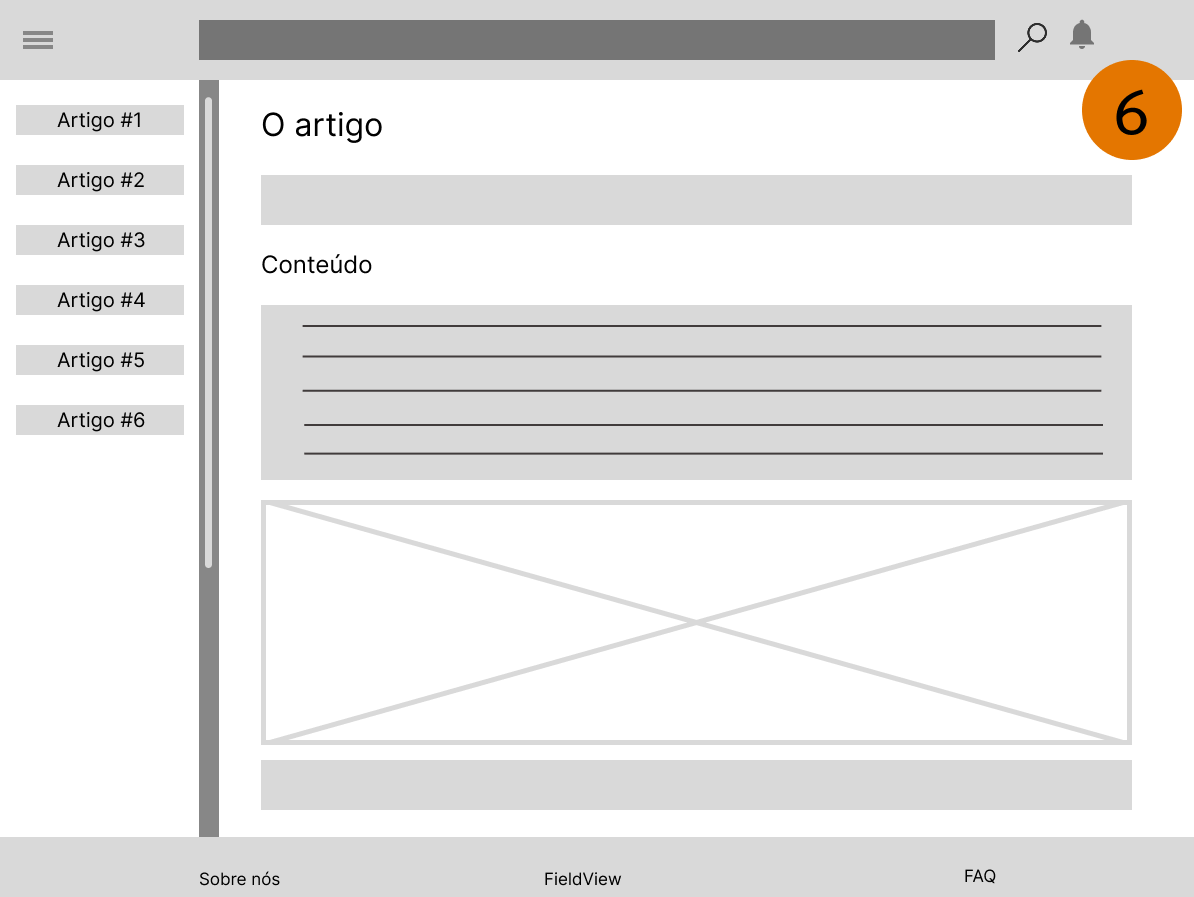
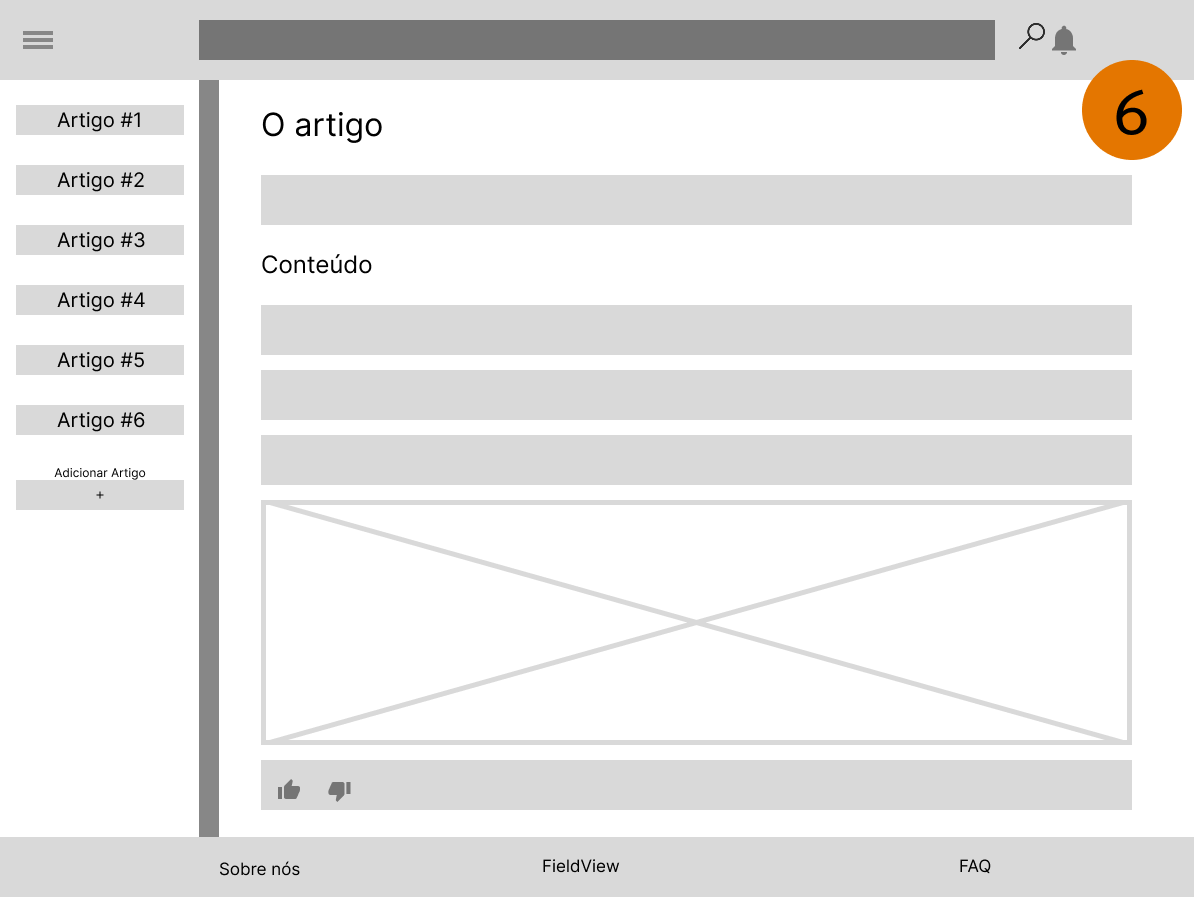
docs: adicionando imagens wireframe

diff --git a/documents/wad.md b/documents/wad.md
@@ -417,9 +417,9 @@ Desktop | Mobile
 
 Tela | Recursos | User Story 
 --- | --- | ---
-<img src="../assets/assets_wad/wireframes/loginPTD.png"> | **Tela de Login:** Campo de Email - Campo para a senha - Botão de confirmação de login | <div align = "center"> 1<br></div>
-<img src="../assets/assets_wad/wireframes/homePTD.png">  | **Tela Home:** Aba de buscas rápidas - Direcionamento para tela de trilhas - Direcionamento para tela de help - Artigos que podem ser fixados pelo PTD para acesso rápido. - Sino de notificações. | <div align = "center"> 1<br>2<br>3 </div>
-<img src="../assets/assets_wad/wireframes/trilhasPTD.png"> <br> <img src="../assets/assets_wad/wireframes/trilhas2PTD.png">  | **Tela Trilhas:** Progesso atual - Histórico de trilhas - Recomendações de tilhas - Base de conteúdos gerais e opcionais. |  <div align = "center"> 1<br>2<br>3<br></div>
+<img src="../assets/assets_wad/wireframes/loginPTD.png"> | **Tela de Login:** <br> - Campo de Email <br> - Campo para a senha <br>- Botão de confirmação de login | <div align = "center"> 1<br></div> 
+<img src="../assets/assets_wad/wireframes/homePTD.png"> <br> <img src="../assets/assets_wad/wireframes/home2PTD.png">| **Tela Home:** <br> - Aba de buscas rápidas <br> - Direcionamento para tela de trilhas <br> - Direcionamento para tela de help <br> - Artigos que podem ser fixados pelo PTD para acesso rápido.  - Sino de notificações. | <div align = "center"> 1<br>2<br>3 </div>
+<img src="../assets/assets_wad/wireframes/trilhasPTD.png"> <br> <img src="../assets/assets_wad/wireframes/trilhas2PTD.png">  | **Tela Trilhas:** <br> - Progesso atual <br> - Histórico de trilhas <br> - Recomendações de tilhas <br> - Base de conteúdos gerais e opcionais. |  <div align = "center"> 1<br>2<br>3<br></div>
  <img src="../assets/assets_wad/wireframes/dashboardPTD.png"> | **Tela Dashboard:** Conteúdo sequêncial - Informações laterais - Material espeífico - Avaliação dos assuntos. | <div align = "center"> 4<br></div>
  <img src="../assets/assets_wad/wireframes/helpPTD.png"> | **Tela Help:** Aba de buscas rápidas - Cards de assuntos e temas recorrentes. | <div align = "center"> 1<br></div>
  <img src="../assets/assets_wad/wireframes/help2PTD.png"> | **Tela do artigo:** Aba de buscas rápidas - Lado direito: artigo - Lado esquerdo: lista de artigos da mesma categoria. | <div align = "center"> 1<br></div>
@@ -442,7 +442,7 @@ Tela | Recursos | User Story
 Tela | Recursos | User Story 
 --- | --- | ---
 <img src="../assets/assets_wad/wireframes/loginPTD.png"> | **Tela de Login:** Mesmas funcionalidades do PTD | <div align = "center"> 7<br></div>
-<img src="../assets/assets_wad/wireframes/homePTD.png">  | **Tela Home:** Mesmas funcionalidades do PTD| <div align = "center"> 7<br></div>
+<img src="../assets/assets_wad/wireframes/homePTD.png"> <br> <img src="../assets/assets_wad/wireframes/home2PTD.png">  | **Tela Home:** Mesmas funcionalidades do PTD| <div align = "center"> 7<br></div>
 <img src="../assets/assets_wad/wireframes/trilhasGestor.png"> | **Tela Trilhas:**  - Cards de trilhas gerais e Botão de adicionar nova trilha  |  <div align = "center"> 6<br>7</div>
 <br> <img src="../assets/assets_wad/wireframes/trilhas2Gestor.png"> | **Tela Dashboard:** Conteúdo sequêncial - Observar avaliação dos assuntos - Adição de novos conteúdos para usuários | <div align = "center"> 7<br>8</div>
  <img src="../assets/assets_wad/wireframes/helpGestor.png"> | **Tela Help:** Aba de buscas rápidas - Funcionalidade de adição de novos cards. | <div align = "center"> 7<br></div>
